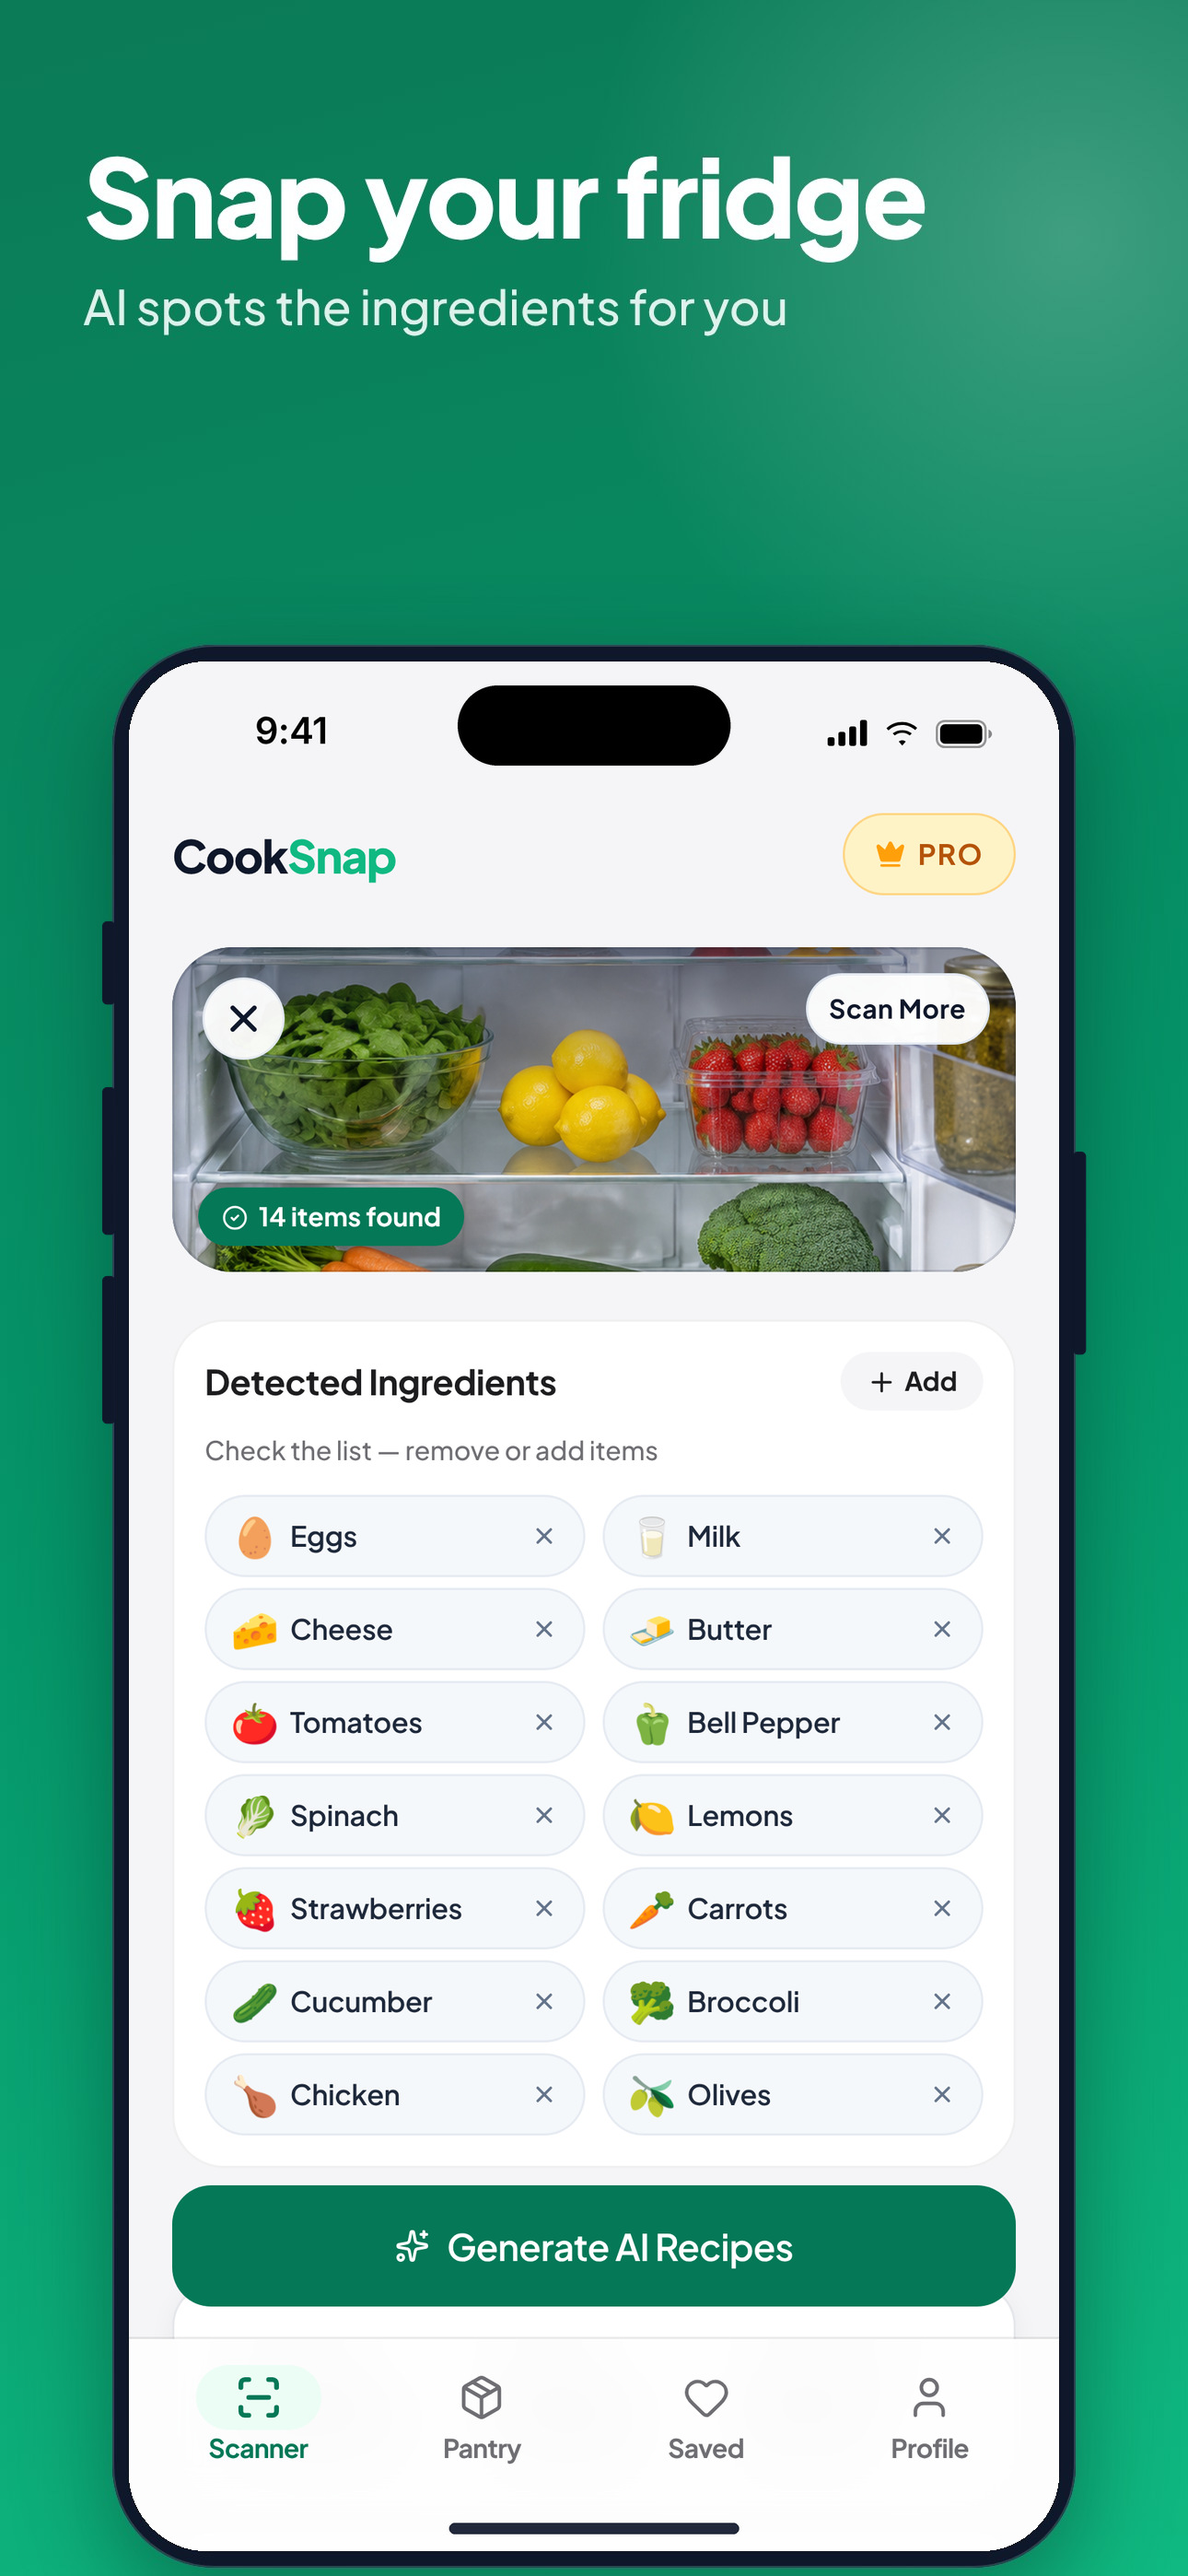
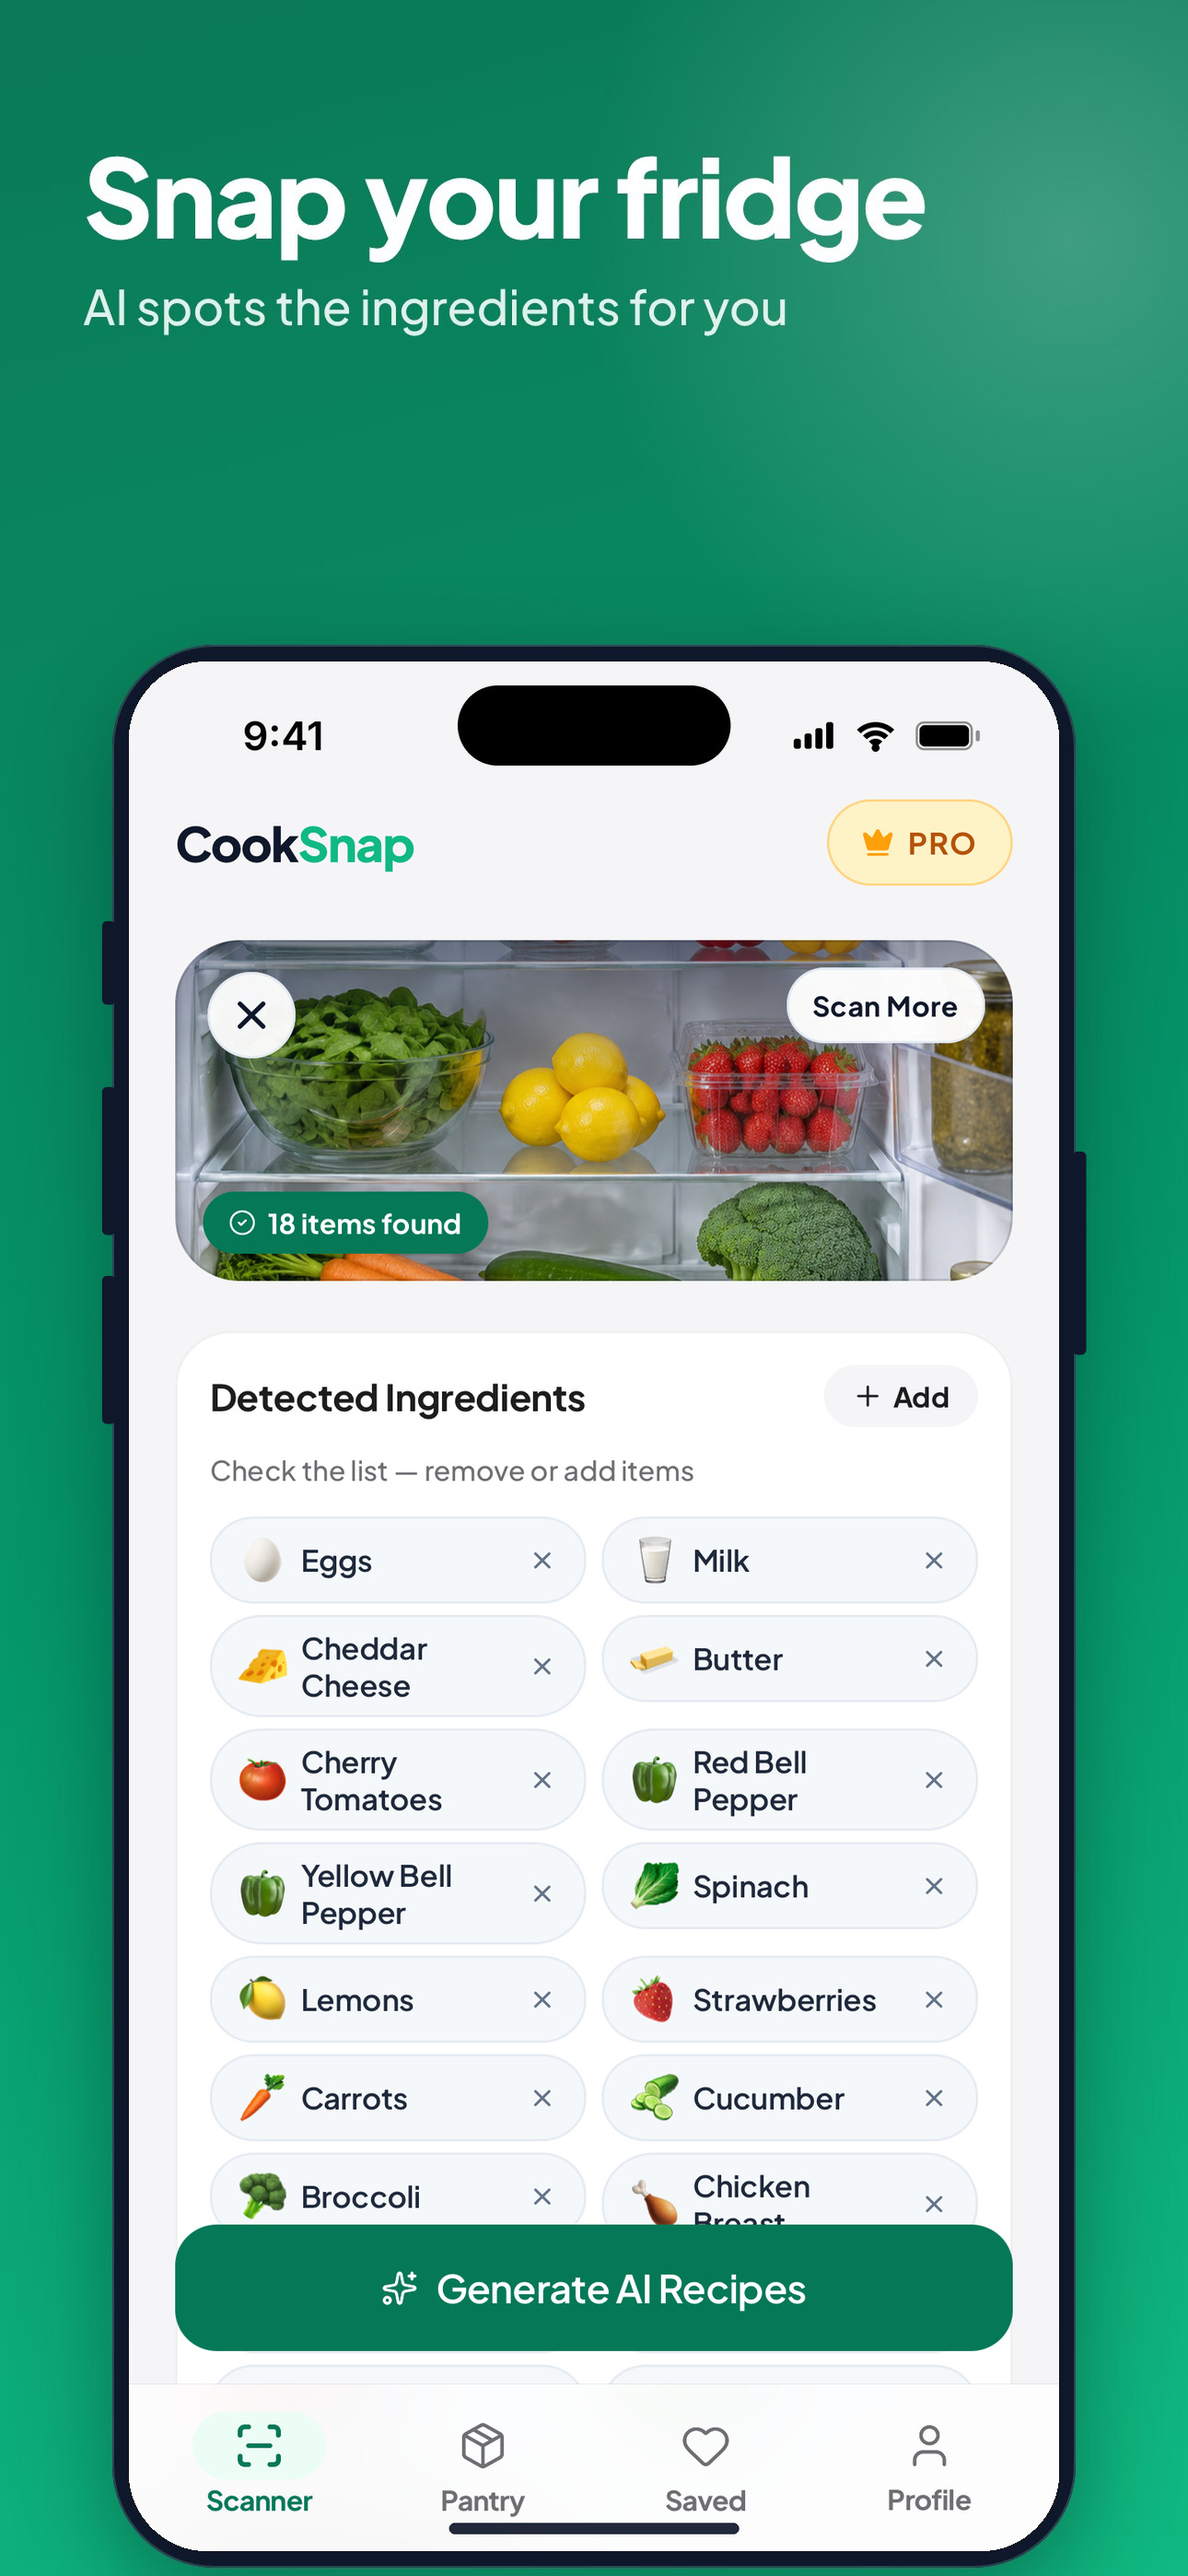
Store slide 01 (EN): real iPhone screenshot with a clean 9:41 status bar; clean_iphone.py prepares real screenshots for compose.py
Claude-Session: https://claude.ai/code/session_01RtbBoobjW7cVhPz1v3aXm1

diff --git a/docs/store/screenshots/tools/clean_iphone.py b/docs/store/screenshots/tools/clean_iphone.py
@@ -1,0 +1,63 @@
+"""Prepares a REAL iPhone screenshot (1206 x 2622, iPhone 16 Pro) for compose.py.
+
+ 1. Replaces the live status bar (real time, battery, mute bell) with a clean one: 9:41, full signal, Wi-Fi, full battery.
+ 2. The store phone frame is a little shorter than a real iPhone 16 Pro screen (aspect 2.03 vs 2.17). Flat, empty rows are
+    removed from the top (status bar zone) and the bottom (below the tab bar labels), and the rest is squashed by ~1-2 %,
+    so the whole screen, including the tab bar, fits the frame without being cut off or visibly distorted.
+
+    python clean_iphone.py <screenshot.png> <out.png>
+"""
+import sys
+import numpy as np
+from PIL import Image, ImageDraw, ImageFont
+
+src, out = sys.argv[1:3]
+im = Image.open(src).convert('RGB')
+W, H = im.size
+assert W == 1206, 'expected an iPhone 16 Pro screenshot 1206 px wide'
+a = np.asarray(im).astype(int)
+
+TOP_ZONE = 182                      # rows above this hold only the status bar (content scrolls under it, hidden)
+bg = tuple(int(v) for v in np.median(a[TOP_ZONE - 8:TOP_ZONE - 2, 4:40].reshape(-1, 3), axis=0))
+draw = ImageDraw.Draw(im)
+draw.rectangle((0, 0, W, TOP_ZONE), fill=bg)
+
+# ---- clean status bar (drawn 4x, then reduced) ----
+SS = 4
+bar = Image.new('RGBA', (W * SS, TOP_ZONE * SS), (0, 0, 0, 0))
+d = ImageDraw.Draw(bar)
+ink = (0, 0, 0, 255)
+cy = 98 * SS
+font = ImageFont.truetype('/usr/share/fonts/opentype/inter/Inter-SemiBold.otf', 52 * SS)
+tw = d.textlength('9:41', font=font)
+d.text((200 * SS - tw / 2, cy), '9:41', font=font, fill=ink, anchor='lm')
+# signal: 4 bars
+for i, h in enumerate((13, 20, 27, 35)):
+    x = 862 + i * 14
+    d.rounded_rectangle((x * SS, (cy / SS + 17 - h) * SS, (x + 9) * SS, (cy / SS + 17) * SS), radius=3 * SS, fill=ink)
+# wifi: three arcs and a dot
+wx, wy = 968, cy / SS + 16
+for r, w in ((34, 7), (23, 7), (12, 7)):
+    d.arc(((wx - r) * SS, (wy - r) * SS, (wx + r) * SS, (wy + r) * SS), 225, 315, fill=ink, width=w * SS)
+d.ellipse(((wx - 5) * SS, (wy - 5) * SS, (wx + 5) * SS, (wy + 5) * SS), fill=ink)
+# battery: outline, full fill, tip
+bx, by, bw, bh = 1020, cy / SS - 19, 74, 38
+d.rounded_rectangle((bx * SS, by * SS, (bx + bw) * SS, (by + bh) * SS), radius=11 * SS, outline=(0, 0, 0, 105), width=3 * SS)
+d.rounded_rectangle(((bx + 5) * SS, (by + 5) * SS, (bx + bw - 5) * SS, (by + bh - 5) * SS), radius=7 * SS, fill=ink)
+d.rounded_rectangle(((bx + bw + 4) * SS, (by + 12) * SS, (bx + bw + 9) * SS, (by + bh - 12) * SS), radius=2 * SS, fill=(0, 0, 0, 105))
+bar = bar.resize((W, TOP_ZONE), Image.LANCZOS)
+im = im.convert('RGBA')
+im.alpha_composite(bar, (0, 0))
+im = im.convert('RGB')
+
+# ---- fit the frame's proportions ----
+TARGET = round(W * 2619 / 1290)     # 2448 rows at this width
+HEAD = 130                         # keep the status bar rows; the flat rows after them (up to TOP_ZONE) can go
+cut_top, cut_bottom = TOP_ZONE - HEAD, 76
+body = im.crop((0, TOP_ZONE, W, H - cut_bottom))
+parts = Image.new('RGB', (W, HEAD + body.height))
+parts.paste(im.crop((0, 0, W, HEAD)), (0, 0))
+parts.paste(body, (0, HEAD))
+parts = parts.resize((W, TARGET), Image.LANCZOS)   # only a ~1 % squash is left
+parts.save(out)
+print(src, '->', out, parts.size)
